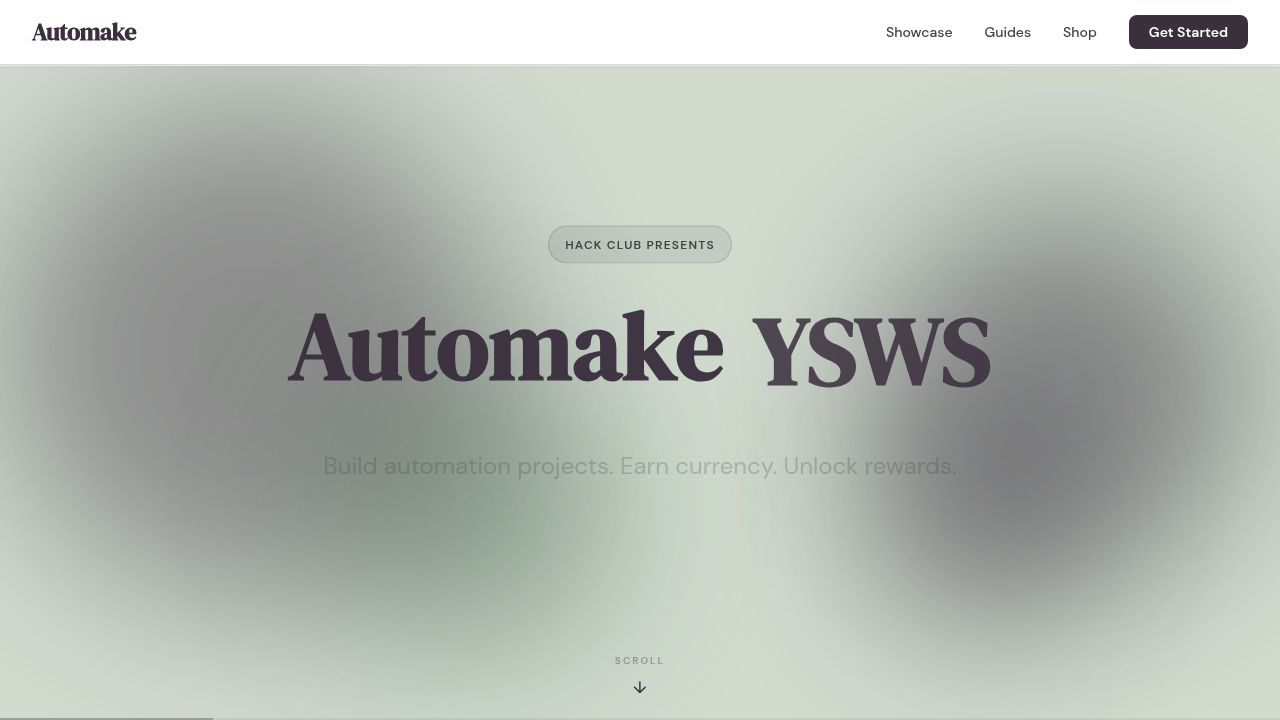
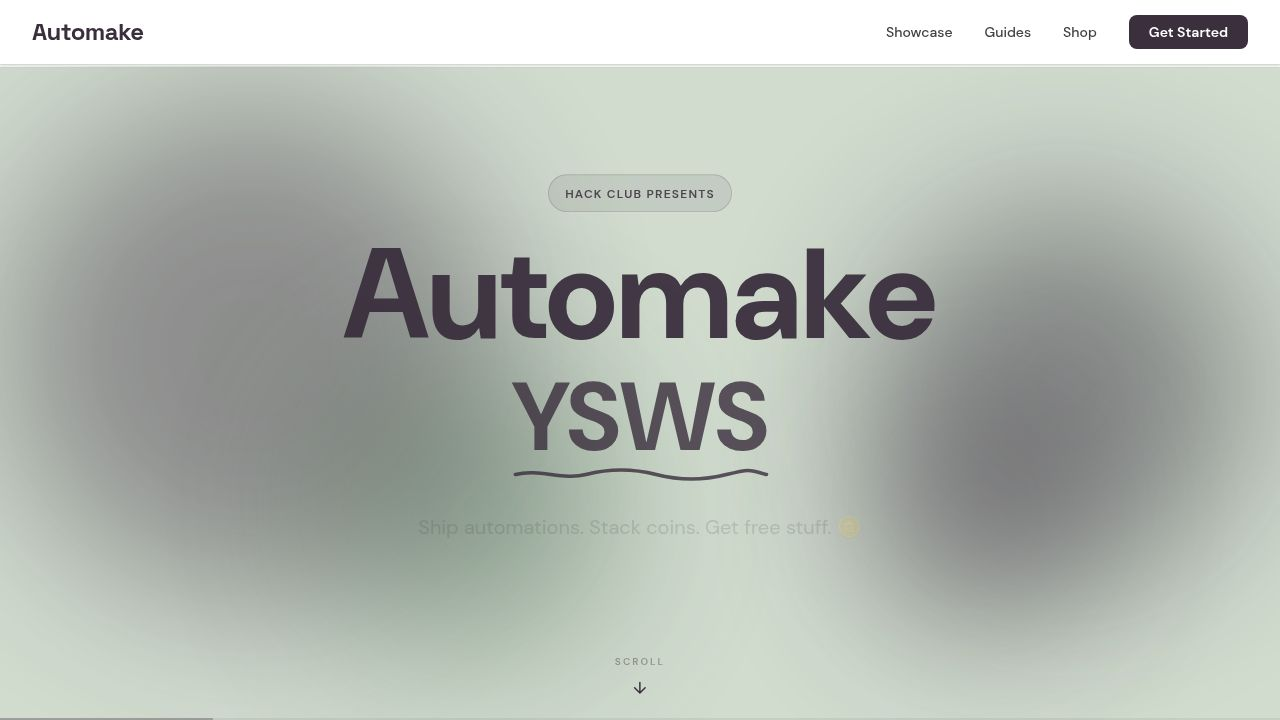
Update website to feel more playful and teen-built
Refactors client-side code to implement a more playful and teen-oriented design, including font changes, updated hero section with badges and tilted text, styled buttons and cards with shadow effects, and stylistic enhancements to headings and FAQs.

Replit-Commit-Author: Agent
Replit-Commit-Session-Id: 40c1c928-59d7-4672-b9cc-accdb8b9a252
Replit-Commit-Checkpoint-Type: full_checkpoint
Replit-Commit-Event-Id: 09ba2c3b-cc43-44b0-b9e6-fc085ab61801
Replit-Commit-Screenshot-Url: https://storage.googleapis.com/screenshot-production-us-central1/6e78bbca-b046-42f5-9e90-3c463f450ad4/40c1c928-59d7-4672-b9cc-accdb8b9a252/oMPnefA
Replit-Helium-Checkpoint-Created: true

Changed region(s): [[0.2188, 0.3361, 0.7812, 0.6722], [0.4375, 0.2444, 0.5625, 0.275], [0.0312, 0.0306, 0.125, 0.0611]]

diff --git a/artifacts/automake-ysws/client/src/pages/Landing.tsx b/artifacts/automake-ysws/client/src/pages/Landing.tsx
@@ -21,11 +21,11 @@ const steps = [
 ];
 
 const faqItems = [
-  { q: "Who can participate?", a: "Any teen aged 13–18 anywhere in the world. Automake YSWS is open to all nationalities and skill levels." },
-  { q: "How do I earn currency?", a: "Submit an automation project, log your build hours, and get approved. Each approved project earns currency based on complexity and time invested." },
-  { q: "What can I buy in the shop?", a: "Automation tools, tech gadgets, fun items, learning resources, and milestone rewards like laptops and travel stipends." },
-  { q: "Do I need prior experience?", a: "Not at all! Starter guides help you build your first project from scratch, even if you've never coded before." },
-  { q: "How many projects can I submit?", a: "As many as you like! Each approved project earns you currency. The more you build, the more you earn." },
+  { q: "Who can join?", a: "Any teen aged 13–18, anywhere in the world. Doesn't matter where you're from or what skill level you're at." },
+  { q: "How do I get coins?", a: "Build an automation, log your hours, submit it, and get approved. Simple. The cooler and more complex your project, the more coins you earn." },
+  { q: "What can I actually buy?", a: "Automation tools, tech gadgets, fun stuff, learning resources — and big milestone rewards like laptops and travel stipends." },
+  { q: "Do I need to know how to code?", a: "Nope! Our guides walk you through everything from zero. If you can follow steps, you can build your first automation." },
+  { q: "How many projects can I submit?", a: "As many as you want. Each approved project earns more coins. Build more, earn more. No limit." },
 ];
 
 /* ─── Accordion ───────────────────────────────────────────── */
@@ -112,8 +112,31 @@ function HeroSection({
         animate="center"
         exit="exit"
       >
+        {/* Sticker badges */}
         <motion.div
-          className="inline-block bg-[#3B2F3E]/10 border border-[#3B2F3E]/20 rounded-full px-4 py-1.5 mb-6"
+          initial={{ opacity: 0, rotate: 8, scale: 0.8 }} animate={{ opacity: 1, rotate: 12, scale: 1 }}
+          transition={{ delay: 0.9, duration: 0.5, ease: [0.22, 1, 0.36, 1] }}
+          style={{ position: "absolute", top: "12%", right: "7%", background: "#2ECC71", color: "white", borderRadius: "50%", width: 88, height: 88, display: "flex", alignItems: "center", justifyContent: "center", textAlign: "center", fontWeight: 800, fontSize: "0.65rem", lineHeight: 1.3, letterSpacing: "0.05em", boxShadow: "3px 3px 0px rgba(0,0,0,0.2)", zIndex: 20, flexDirection: "column" }}
+        >
+          FREE<br />TOOLS
+        </motion.div>
+        <motion.div
+          initial={{ opacity: 0, rotate: -4, scale: 0.8 }} animate={{ opacity: 1, rotate: -8, scale: 1 }}
+          transition={{ delay: 1.0, duration: 0.5, ease: [0.22, 1, 0.36, 1] }}
+          style={{ position: "absolute", bottom: "22%", left: "4%", background: "#3B2F3E", color: "white", borderRadius: "50px", padding: "10px 16px", fontWeight: 800, fontSize: "0.6rem", lineHeight: 1.4, textAlign: "center", letterSpacing: "0.06em", boxShadow: "3px 3px 0px rgba(0,0,0,0.2)", zIndex: 20 }}
+        >
+          OPEN TO<br />ALL TEENS
+        </motion.div>
+        <motion.div
+          initial={{ opacity: 0, rotate: 2, scale: 0.8 }} animate={{ opacity: 1, rotate: 5, scale: 1 }}
+          transition={{ delay: 1.05, duration: 0.5, ease: [0.22, 1, 0.36, 1] }}
+          style={{ position: "absolute", top: "18%", left: "3%", background: "#D1DCCF", color: "#3B2F3E", borderRadius: "12px", padding: "8px 14px", fontWeight: 800, fontSize: "0.6rem", lineHeight: 1.4, textAlign: "center", letterSpacing: "0.06em", boxShadow: "3px 3px 0px rgba(59,47,62,0.3)", zIndex: 20 }}
+        >
+          🪙 EARN<br />COINS
+        </motion.div>
+
+        <motion.div
+          className="inline-block bg-[#3B2F3E]/10 border border-[#3B2F3E]/20 rounded-full px-4 py-1.5 mb-5"
           initial={{ opacity: 0, y: 20 }} animate={{ opacity: 1, y: 0 }}
           transition={{ delay: 0.35, duration: 0.5 }}
         >
@@ -122,24 +145,39 @@ function HeroSection({
           </span>
         </motion.div>
 
-        <h1 className="font-serif text-6xl sm:text-7xl lg:text-8xl font-bold text-[#3B2F3E] leading-tight mb-6 flex flex-wrap justify-center gap-x-[0.3em]">
-          {"Automake YSWS".split(" ").map((word, i) => (
-            <motion.span key={i} className="inline-block"
-              initial={{ opacity: 0, y: 30 }}
-              animate={{ opacity: 1, y: 0 }}
-              transition={{ delay: 0.45 + i * 0.1, duration: 0.55, ease: [0.22, 1, 0.36, 1] }}
+        <h1 className="font-sans font-extrabold text-[#3B2F3E] leading-none mb-5 flex flex-col items-center">
+          <motion.span
+            className="inline-block text-8xl sm:text-9xl"
+            style={{ transform: "rotate(-2deg)", display: "inline-block" }}
+            initial={{ opacity: 0, y: 30 }}
+            animate={{ opacity: 1, y: 0 }}
+            transition={{ delay: 0.45, duration: 0.55, ease: [0.22, 1, 0.36, 1] }}
+          >
+            Automake
+          </motion.span>
+          <motion.span
+            className="inline-block relative text-7xl sm:text-8xl mt-1 pb-4"
+            initial={{ opacity: 0, y: 30 }}
+            animate={{ opacity: 1, y: 0 }}
+            transition={{ delay: 0.55, duration: 0.55, ease: [0.22, 1, 0.36, 1] }}
+          >
+            YSWS
+            <svg viewBox="0 0 220 14" xmlns="http://www.w3.org/2000/svg"
+              style={{ position: "absolute", bottom: 0, left: 0, width: "100%", height: 14 }}
+              preserveAspectRatio="none"
             >
-              {word}
-            </motion.span>
-          ))}
+              <path d="M4 7 C24 1, 44 13, 64 7 S104 1, 124 7 S164 13, 184 7 S204 2, 218 7"
+                fill="none" stroke="#3B2F3E" strokeWidth="3.5" strokeLinecap="round" />
+            </svg>
+          </motion.span>
         </h1>
 
         <motion.p
-          className="font-sans text-xl sm:text-2xl text-[#424242] max-w-2xl mx-auto mb-10 leading-relaxed"
+          className="font-sans text-lg sm:text-xl text-[#424242] max-w-xl mx-auto mb-9 leading-relaxed"
           initial={{ opacity: 0, y: 20 }} animate={{ opacity: 1, y: 0 }}
           transition={{ delay: 0.65, duration: 0.5 }}
         >
-          Build automations that solve real world problems for real world people.
+          Ship automations. Stack coins. Get free stuff. 🪙
         </motion.p>
 
         <motion.div
@@ -148,14 +186,24 @@ function HeroSection({
           transition={{ delay: 0.75, duration: 0.5 }}
         >
           <Link href="/showcase">
-            <motion.span whileHover={{ scale: 1.05 }} whileTap={{ scale: 0.97 }}
-              className="font-sans font-semibold bg-[#3B2F3E] text-white px-8 py-4 rounded-lg text-base hover:bg-[#2d2330] transition-colors cursor-pointer inline-block">
+            <motion.span
+              whileHover={{ rotate: -1, y: 2 }} whileTap={{ scale: 0.97 }}
+              className="font-sans font-bold bg-[#3B2F3E] text-white px-8 py-4 rounded-lg text-base cursor-pointer inline-block transition-all"
+              style={{ boxShadow: "3px 3px 0px #424242" }}
+              onMouseEnter={e => ((e.currentTarget as HTMLElement).style.boxShadow = "none")}
+              onMouseLeave={e => ((e.currentTarget as HTMLElement).style.boxShadow = "3px 3px 0px #424242")}
+            >
               Explore Projects
             </motion.span>
           </Link>
           <Link href="/guides">
-            <motion.span whileHover={{ scale: 1.05 }} whileTap={{ scale: 0.97 }}
-              className="font-sans font-semibold border-2 border-[#3B2F3E] text-[#3B2F3E] px-8 py-4 rounded-lg text-base hover:bg-[#3B2F3E] hover:text-white transition-colors cursor-pointer inline-block">
+            <motion.span
+              whileHover={{ rotate: 1, y: 2 }} whileTap={{ scale: 0.97 }}
+              className="font-sans font-bold border-2 border-[#3B2F3E] text-[#3B2F3E] px-8 py-4 rounded-lg text-base cursor-pointer inline-block transition-all"
+              style={{ boxShadow: "3px 3px 0px #3B2F3E" }}
+              onMouseEnter={e => ((e.currentTarget as HTMLElement).style.boxShadow = "none")}
+              onMouseLeave={e => ((e.currentTarget as HTMLElement).style.boxShadow = "3px 3px 0px #3B2F3E")}
+            >
               Browse Guides
             </motion.span>
           </Link>
@@ -189,8 +237,8 @@ function HowItWorksSection({ dir }: { dir: number }) {
       >
         <div className="max-w-6xl mx-auto px-6 w-full">
           <div className="text-center mb-12">
-            <h2 className="font-serif text-4xl sm:text-5xl font-bold text-[#3B2F3E] mb-4">
-              Here's How It Works
+            <h2 className="font-sans text-4xl sm:text-5xl font-extrabold text-[#3B2F3E] mb-4">
+              Here's <mark>How</mark> It Works
             </h2>
             <p className="font-sans text-[#424242] text-lg max-w-2xl mx-auto">
               Four simple steps from idea to reward. Anyone can do it.
@@ -200,14 +248,18 @@ function HowItWorksSection({ dir }: { dir: number }) {
           <div className="grid grid-cols-1 sm:grid-cols-2 lg:grid-cols-4 gap-5">
             {steps.map((step, i) => (
               <motion.div key={i}
-                whileHover={{ y: -6, transition: { duration: 0.2 } }}
-                className="bg-[#D1DCCF]/30 border border-[#D1DCCF] rounded-xl p-7 text-center"
+                whileHover={{ y: -6, rotate: 0, transition: { duration: 0.2 } }}
+                className="relative bg-[#D1DCCF]/30 rounded-xl p-7 text-center overflow-hidden"
+                style={{ boxShadow: "3px 3px 0px #3B2F3E", border: "1px solid #D1DCCF" }}
               >
-                <div className="text-4xl mb-3">{step.icon}</div>
-                <div className="font-sans text-xs font-bold text-[#3B2F3E]/40 uppercase tracking-widest mb-2">
-                  Step {i + 1}
+                {/* Watermark number */}
+                <div style={{ position: "absolute", top: -8, left: 6, fontSize: "5rem", fontWeight: 900, color: "#D1DCCF", lineHeight: 1, userSelect: "none", pointerEvents: "none", zIndex: 0 }}>
+                  {String(i + 1).padStart(2, "0")}
                 </div>
-                <p className="font-sans font-semibold text-[#3B2F3E] text-base">{step.label}</p>
+                <div className="relative z-10">
+                  <div className="text-5xl mb-3">{step.icon}</div>
+                  <p className="font-sans font-bold text-[#3B2F3E] text-base">{step.label}</p>
+                </div>
               </motion.div>
             ))}
           </div>
@@ -242,8 +294,8 @@ function ProjectsSection({ dir }: { dir: number }) {
         exit="exit"
       >
         <div className="text-center mb-10">
-          <h2 className="font-serif text-4xl sm:text-5xl font-bold text-[#3B2F3E] mb-4">
-            Projects shipped so far
+          <h2 className="font-sans text-4xl sm:text-5xl font-extrabold text-[#3B2F3E] mb-4">
+            Projects <mark>shipped</mark> so far
           </h2>
           <p className="font-sans text-[#424242] text-lg max-w-2xl mx-auto">
             Real automation projects built by real teens, just like you.
@@ -256,6 +308,8 @@ function ProjectsSection({ dir }: { dir: number }) {
               initial={{ opacity: 0, scale: 0.93 }}
               animate={{ opacity: 1, scale: 1 }}
               transition={{ delay: 0.3 + i * 0.1, duration: 0.5, ease: [0.22, 1, 0.36, 1] }}
+              style={{ transform: `rotate(${i % 2 === 0 ? "1deg" : "-1deg"})` }}
+              whileHover={{ rotate: 0, y: -4, transition: { duration: 0.2 } }}
             >
               <ProjectCard project={p} />
             </motion.div>
@@ -286,7 +340,7 @@ function FaqSectionContent({ dir }: { dir: number }) {
         exit="exit"
       >
         <div className="text-center mb-8">
-          <h2 className="font-serif text-4xl sm:text-5xl font-bold text-[#3B2F3E] mb-3">FAQ</h2>
+          <h2 className="font-sans text-4xl sm:text-5xl font-extrabold text-[#3B2F3E] mb-3"><mark>FAQ</mark></h2>
           <p className="font-sans text-[#424242]">Got questions? We've got answers.</p>
         </div>
         <div className="flex flex-col gap-2.5">
@@ -608,6 +662,10 @@ export default function Landing() {
         </div>
       </div>
 
+      {/* Footer sign-off */}
+      <div style={{ textAlign: "center", padding: "6px 0", fontSize: "11px", color: "rgba(59,47,62,0.35)", fontFamily: "DM Sans, sans-serif", letterSpacing: "0.02em" }}>
+        Made with 🤖 by teen builders. No adults were harmed.
+      </div>
     </div>
   );
 }

diff --git a/artifacts/automake-ysws/client/src/components/ProjectCard.tsx b/artifacts/automake-ysws/client/src/components/ProjectCard.tsx
@@ -7,9 +7,18 @@ interface ProjectCardProps {
 
 export default function ProjectCard({ project }: ProjectCardProps) {
   return (
-    <div className="bg-white border border-[#D1DCCF] rounded-xl p-6 shadow-sm hover:shadow-md hover:-translate-y-1 transition-all duration-200 flex flex-col">
+    <div
+      className="bg-white rounded-xl p-6 flex flex-col transition-all duration-200 hover:-translate-y-1"
+      style={{
+        borderTop: "4px solid #3B2F3E",
+        border: "1px solid #D1DCCF",
+        borderTopWidth: "4px",
+        borderTopColor: "#3B2F3E",
+        boxShadow: "3px 3px 0px #3B2F3E",
+      }}
+    >
       <div className="mb-3">
-        <h3 className="font-serif text-lg font-bold text-[#3B2F3E] leading-tight">
+        <h3 className="font-sans text-lg font-bold text-[#3B2F3E] leading-tight">
           {project.title}
         </h3>
       </div>
@@ -19,7 +28,12 @@ export default function ProjectCard({ project }: ProjectCardProps) {
       </p>
 
       <Link href={`/projects/${project.id}`}>
-        <span className="mt-4 w-full inline-flex items-center justify-center font-sans text-sm font-semibold bg-[#3B2F3E] text-white px-5 py-2.5 rounded-lg hover:bg-[#2d2330] transition-colors cursor-pointer">
+        <span
+          className="mt-4 w-full inline-flex items-center justify-center font-sans text-sm font-bold bg-[#3B2F3E] text-white px-5 py-2.5 rounded-lg cursor-pointer transition-all duration-150 hover:translate-y-[2px]"
+          style={{ boxShadow: "3px 3px 0px #424242" }}
+          onMouseEnter={e => (e.currentTarget.style.boxShadow = "none")}
+          onMouseLeave={e => (e.currentTarget.style.boxShadow = "3px 3px 0px #424242")}
+        >
           View Project →
         </span>
       </Link>

diff --git a/artifacts/automake-ysws/client/src/components/MarqueeStrip.tsx b/artifacts/automake-ysws/client/src/components/MarqueeStrip.tsx
@@ -1,7 +1,20 @@
-import { projects } from "../data/projects";
+const marqueeItems = [
+  "⚡ Email Auto-Responder",
+  "🤖 WhatsApp Bot",
+  "📊 Auto-Report Generator",
+  "🔗 Zapier Clone",
+  "🧠 AI Flashcard Maker",
+  "💬 Slack Daily Digest",
+  "🪙 Crypto Price Notifier",
+  "📅 Social Media Scheduler",
+  "🎨 AI Recipe Generator",
+  "📬 Newsletter Bot",
+  "🔥 Notion Sync",
+  "💡 Discord Alerts",
+];
 
 export default function MarqueeStrip() {
-  const doubled = [...projects, ...projects];
+  const doubled = [...marqueeItems, ...marqueeItems];
 
   return (
     <div className="w-full overflow-hidden py-3">
@@ -9,16 +22,16 @@ export default function MarqueeStrip() {
         className="flex gap-3"
         style={{
           width: "max-content",
-          animation: "marquee 28s linear infinite",
+          animation: "marquee 32s linear infinite",
         }}
       >
-        {doubled.map((p, i) => (
+        {doubled.map((text, i) => (
           <div
             key={i}
             className="bg-[#D1DCCF]/40 border border-[#3B2F3E]/10 rounded-full px-5 py-2.5 shrink-0 flex items-center"
           >
             <span className="font-sans text-[#3B2F3E]/70 font-medium text-sm whitespace-nowrap">
-              {p.title}
+              {text}
             </span>
           </div>
         ))}

diff --git a/artifacts/automake-ysws/client/src/index.css b/artifacts/automake-ysws/client/src/index.css
@@ -1,4 +1,4 @@
-@import url('https://fonts.googleapis.com/css2?family=DM+Serif+Display:ital@0;1&family=DM+Sans:ital,opsz,wght@0,9..40,300;0,9..40,400;0,9..40,500;0,9..40,600;0,9..40,700;1,9..40,400&display=swap');
+@import url('https://fonts.googleapis.com/css2?family=Space+Grotesk:wght@500;700;800&family=DM+Sans:ital,opsz,wght@0,9..40,300;0,9..40,400;0,9..40,500;0,9..40,600;0,9..40,700;1,9..40,400&display=swap');
 @import "tailwindcss";
 @import "tw-animate-css";
 
@@ -98,7 +98,7 @@
   --chart-5: 95 25% 70%;
 
   --app-font-sans: 'DM Sans', sans-serif;
-  --app-font-serif: 'DM Serif Display', serif;
+  --app-font-serif: 'Space Grotesk', sans-serif;
   --app-font-mono: Menlo, monospace;
   --radius: .5rem;
 
@@ -132,7 +132,16 @@
   }
 
   h1, h2, h3, h4, h5, h6 {
-    font-family: 'DM Serif Display', serif;
+    font-family: 'Space Grotesk', sans-serif;
+  }
+
+  mark {
+    background: var(--eucalyptus);
+    color: var(--midnight-plum);
+    padding: 0 6px;
+    border-radius: 4px;
+    transform: rotate(-1deg);
+    display: inline-block;
   }
 }
 

diff --git a/artifacts/automake-ysws/client/index.html b/artifacts/automake-ysws/client/index.html
@@ -7,7 +7,7 @@
     <link rel="icon" type="image/svg+xml" href="/favicon.svg" />
     <link rel="preconnect" href="https://fonts.googleapis.com">
     <link rel="preconnect" href="https://fonts.gstatic.com" crossorigin>
-    <link href="https://fonts.googleapis.com/css2?family=Inter:wght@400;500;600;700&display=swap" rel="stylesheet">
+    <link href="https://fonts.googleapis.com/css2?family=Space+Grotesk:wght@500;700;800&family=DM+Sans:ital,opsz,wght@0,9..40,300;0,9..40,400;0,9..40,500;0,9..40,600;0,9..40,700;1,9..40,400&display=swap" rel="stylesheet">
   </head>
   <body>
     <div id="root"></div>
